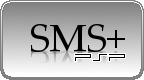
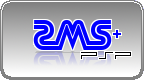
Implemented unique colors & images Added viewport rendering to PutImage

Changed region(s): [[0.1944, 0.225, 0.9167, 0.775]]

diff --git a/psp/menu.c b/psp/menu.c
@@ -129,7 +129,6 @@ static const PspMenuOptionDef
   FrameLimitOptions[] = {
     { "Disabled", (void*)0 },
     { "60 fps (NTSC)", (void*)60 },
-    { "50 fps (PAL)", (void*)50 },
     { NULL, NULL } },
   FrameSkipOptions[] = {
     { "No skipping", (void*)0 },
@@ -189,42 +188,42 @@ static const PspMenuItemDef
     { NULL, NULL }
   },
   ControlMenuDef[] = {
-    { PSP_FONT_ANALUP,     (void*)MAP_ANALOG_UP,
+    { "\026"PSP_FONT_ANALUP,     (void*)MAP_ANALOG_UP,
       ButtonMapOptions, -1, ControlHelpText },
-    { PSP_FONT_ANALDOWN,   (void*)MAP_ANALOG_DOWN,
+    { "\026"PSP_FONT_ANALDOWN,   (void*)MAP_ANALOG_DOWN,
       ButtonMapOptions, -1, ControlHelpText },
-    { PSP_FONT_ANALLEFT,   (void*)MAP_ANALOG_LEFT,
+    { "\026"PSP_FONT_ANALLEFT,   (void*)MAP_ANALOG_LEFT,
       ButtonMapOptions, -1, ControlHelpText },
-    { PSP_FONT_ANALRIGHT,  (void*)MAP_ANALOG_RIGHT,
+    { "\026"PSP_FONT_ANALRIGHT,  (void*)MAP_ANALOG_RIGHT,
       ButtonMapOptions, -1, ControlHelpText },
-    { PSP_FONT_UP,         (void*)MAP_BUTTON_UP,
+    { "\026"PSP_FONT_UP,         (void*)MAP_BUTTON_UP,
       ButtonMapOptions, -1, ControlHelpText },
-    { PSP_FONT_DOWN,       (void*)MAP_BUTTON_DOWN,
+    { "\026"PSP_FONT_DOWN,       (void*)MAP_BUTTON_DOWN,
       ButtonMapOptions, -1, ControlHelpText },
-    { PSP_FONT_LEFT,       (void*)MAP_BUTTON_LEFT,
+    { "\026"PSP_FONT_LEFT,       (void*)MAP_BUTTON_LEFT,
       ButtonMapOptions, -1, ControlHelpText },
-    { PSP_FONT_RIGHT,      (void*)MAP_BUTTON_RIGHT,
+    { "\026"PSP_FONT_RIGHT,      (void*)MAP_BUTTON_RIGHT,
       ButtonMapOptions, -1, ControlHelpText },
-    { PSP_FONT_SQUARE,     (void*)MAP_BUTTON_SQUARE,
+    { "\026"PSP_FONT_SQUARE,     (void*)MAP_BUTTON_SQUARE,
       ButtonMapOptions, -1, ControlHelpText },
-    { PSP_FONT_CROSS,      (void*)MAP_BUTTON_CROSS,
+    { "\026"PSP_FONT_CROSS,      (void*)MAP_BUTTON_CROSS,
       ButtonMapOptions, -1, ControlHelpText },
-    { PSP_FONT_CIRCLE,     (void*)MAP_BUTTON_CIRCLE,
+    { "\026"PSP_FONT_CIRCLE,     (void*)MAP_BUTTON_CIRCLE,
       ButtonMapOptions, -1, ControlHelpText },
-    { PSP_FONT_TRIANGLE,   (void*)MAP_BUTTON_TRIANGLE,
+    { "\026"PSP_FONT_TRIANGLE,   (void*)MAP_BUTTON_TRIANGLE,
       ButtonMapOptions, -1, ControlHelpText },
-    { PSP_FONT_LTRIGGER,   (void*)MAP_BUTTON_LTRIGGER,
+    { "\026"PSP_FONT_LTRIGGER,   (void*)MAP_BUTTON_LTRIGGER,
       ButtonMapOptions, -1, ControlHelpText },
-    { PSP_FONT_RTRIGGER,   (void*)MAP_BUTTON_RTRIGGER,
+    { "\026"PSP_FONT_RTRIGGER,   (void*)MAP_BUTTON_RTRIGGER,
       ButtonMapOptions, -1, ControlHelpText },
-    { PSP_FONT_SELECT,     (void*)MAP_BUTTON_SELECT,
+    { "\026"PSP_FONT_SELECT,     (void*)MAP_BUTTON_SELECT,
       ButtonMapOptions, -1, ControlHelpText },
-    { PSP_FONT_START,      (void*)MAP_BUTTON_START,
+    { "\026"PSP_FONT_START,      (void*)MAP_BUTTON_START,
       ButtonMapOptions, -1, ControlHelpText },
-    { PSP_FONT_LTRIGGER"+"PSP_FONT_RTRIGGER,
+    { "\026"PSP_FONT_LTRIGGER"+"PSP_FONT_RTRIGGER,
                            (void*)MAP_BUTTON_LRTRIGGERS,
       ButtonMapOptions, -1, ControlHelpText },
-    { PSP_FONT_START"+"PSP_FONT_SELECT,
+    { "\026"PSP_FONT_START"+"PSP_FONT_SELECT,
                            (void*)MAP_BUTTON_STARTSELECT,
       ButtonMapOptions, -1, ControlHelpText },
     { NULL, NULL }
@@ -311,10 +310,10 @@ struct ButtonConfig DefaultConfig =
     JOY|INPUT_DOWN,   /* D-pad Down   */
     JOY|INPUT_LEFT,   /* D-pad Left   */
     JOY|INPUT_RIGHT,  /* D-pad Right  */
-    JOY|INPUT_BUTTON1,/* Square       */
+    JOY|INPUT_BUTTON2,/* Square       */
     JOY|INPUT_BUTTON1,/* Cross        */
-    JOY|INPUT_BUTTON2,/* Circle       */
-    JOY|INPUT_BUTTON2,/* Triangle     */
+    0,                /* Circle       */
+    0,                /* Triangle     */
     0,                /* L Trigger    */
     0,                /* R Trigger    */
     0,                /* Select       */
@@ -372,7 +371,7 @@ void InitMenu()
 
   /* Init NoSaveState icon image */
   NoSaveIcon=pspImageCreate(136, 114);
-  pspImageClear(NoSaveIcon, RGB(66,66,66));
+  pspImageClear(NoSaveIcon, RGB(0x0c,0,0x3f));
 
   /* Initialize state menu */
   SaveStateGallery.Menu = pspMenuCreate();
@@ -416,7 +415,7 @@ void InitMenu()
   UiMetric.Left = 8;
   UiMetric.Top = 24;
   UiMetric.Right = 472;
-  UiMetric.Bottom = 240;
+  UiMetric.Bottom = 250;
   UiMetric.OkButton = (!SmsOptions.ControlMode) ? PSP_CTRL_CROSS : PSP_CTRL_CIRCLE;
   UiMetric.CancelButton = (!SmsOptions.ControlMode) ? PSP_CTRL_CIRCLE : PSP_CTRL_CROSS;
   UiMetric.ScrollbarColor = PSP_VIDEO_GRAY;
@@ -425,8 +424,8 @@ void InitMenu()
   UiMetric.DialogBorderColor = PSP_VIDEO_GRAY;
   UiMetric.DialogBgColor = PSP_VIDEO_DARKGRAY;
   UiMetric.TextColor = PSP_VIDEO_GRAY;
-  UiMetric.SelectedColor = PSP_VIDEO_GREEN;
-  UiMetric.SelectedBgColor = COLOR(0,0,0,0x55);
+  UiMetric.SelectedColor = PSP_VIDEO_YELLOW;
+  UiMetric.SelectedBgColor = COLOR(0xff,0xff,0xff,0x44);
   UiMetric.StatusBarColor = PSP_VIDEO_WHITE;
   UiMetric.BrowserFileColor = PSP_VIDEO_GRAY;
   UiMetric.BrowserDirectoryColor = PSP_VIDEO_YELLOW;
@@ -610,7 +609,7 @@ void OnGenericRender(const void *uiobject, const void *item_obj)
 
     /* Draw background of active tab */
     if (i == TabIndex)
-      pspVideoFillRect(x - 5, 0, x + width + 5, height + 1, 0xff959595);
+      pspVideoFillRect(x - 5, 0, x + width + 5, height + 1, COLOR(0x17,0x00,0x79,0xff));
 
     /* Draw name of tab */
     pspVideoPrint(UiMetric.Font, x, 0, TabLabel[i], PSP_VIDEO_WHITE);
@@ -1164,7 +1163,9 @@ PspImage* SaveState(const char *path, PspImage *icon)
     return NULL;
 
   /* Create thumbnail */
-  PspImage *thumb = pspImageCreateThumbnail(icon);
+  PspImage *thumb;
+  thumb = (icon->Viewport.Width < 200)
+    ? pspImageCreateCopy(icon) : pspImageCreateThumbnail(icon);
   if (!thumb) { fclose(f); return NULL; }
 
   /* Write the thumbnail */

diff --git a/psplib/image.c b/psplib/image.c
@@ -89,11 +89,14 @@ PspImage* pspImageCreateThumbnail(const PspImage *image)
   PspImage *thumb;
   int i, j, p;
 
-  if (!(thumb = pspImageCreate(image->Width / 2, image->Height / 2)))
+  if (!(thumb = pspImageCreate(image->Viewport.Width / 2, image->Viewport.Height / 2)))
     return NULL;
 
-  for (i = 0, p = 0; i < image->Height; i += 2)
-    for (j = 0; j < image->Width; j += 2)
+  int dy = image->Viewport.Y + image->Viewport.Height;
+  int dx = image->Viewport.X + image->Viewport.Width;
+
+  for (i = image->Viewport.Y, p = 0; i < dy; i += 2)
+    for (j = image->Viewport.X; j < dx; j += 2)
       thumb->Pixels[p++] = image->Pixels[(image->Width * i) + j];
 
   return thumb;  
@@ -110,6 +113,7 @@ PspImage* pspImageCreateCopy(const PspImage *image)
   /* Copy pixels */
   int size = image->Width * image->Height * sizeof(unsigned short);
   memcpy(copy->Pixels, image->Pixels, size);
+  memcpy(&copy->Viewport, &image->Viewport, sizeof(PspViewport));
 
   return copy;
 }
@@ -307,52 +311,55 @@ int pspImageSavePngOpen(FILE *fp, const PspImage* image)
   const unsigned short *pixel;
   int i, j;
 
-  if (!(bitmap = (unsigned char*)malloc(sizeof(unsigned char) * image->Width * image->Height * 3)))
+  int size = sizeof(u8) * image->Viewport.Width * image->Viewport.Height * 3;
+  if (!(bitmap = (u8*)malloc(size)))
     return 0;
 
-  for (i = 0, pixel = image->Pixels; i < image->Height; i++)
+  pixel = image->Pixels + (image->Viewport.Y * image->Width);
+  for (i = 0; i < image->Viewport.Height; i++)
   {
-    for (j = 0; j < image->Width; j++, pixel++)
+    pixel += image->Viewport.X;
+    for (j = 0; j < image->Viewport.Width; j++, pixel++)
     {
-      bitmap[i * image->Width * 3 + j * 3 + 0] = RED(*pixel);
-      bitmap[i * image->Width * 3 + j * 3 + 1] = GREEN(*pixel);
-      bitmap[i * image->Width * 3 + j * 3 + 2] = BLUE(*pixel);
+      bitmap[i * image->Viewport.Width * 3 + j * 3 + 0] = RED(*pixel);
+      bitmap[i * image->Viewport.Width * 3 + j * 3 + 1] = GREEN(*pixel);
+      bitmap[i * image->Viewport.Width * 3 + j * 3 + 2] = BLUE(*pixel);
     }
   }
 
   png_struct *pPngStruct = png_create_write_struct( PNG_LIBPNG_VER_STRING,
     NULL, NULL, NULL );
 
-	if (!pPngStruct)
-	{
-	  free(bitmap);
-		return 0;
+  if (!pPngStruct)
+  {
+    free(bitmap);
+    return 0;
   }
 
   png_info *pPngInfo = png_create_info_struct( pPngStruct );
-	if (!pPngInfo)
-	{
-		png_destroy_write_struct( &pPngStruct, NULL );
-	  free(bitmap);
-		return 0;
-	}
+  if (!pPngInfo)
+  {
+    png_destroy_write_struct( &pPngStruct, NULL );
+    free(bitmap);
+    return 0;
+  }
 
-	png_byte **buf = (png_byte**)malloc(image->Height * sizeof(png_byte*));
-	if (!buf)
-	{
+  png_byte **buf = (png_byte**)malloc(image->Height * sizeof(png_byte*));
+  if (!buf)
+  {
     png_destroy_write_struct( &pPngStruct, &pPngInfo );
-	  free(bitmap);
-		return 0;
-	}
+    free(bitmap);
+    return 0;
+  }
 
-	unsigned int y;
-	for (y = 0; y < image->Height; y++)
-		buf[y] = (byte*)&bitmap[y * image->Width * 3];
+  unsigned int y;
+  for (y = 0; y < image->Height; y++)
+    buf[y] = (byte*)&bitmap[y * image->Width * 3];
 
   if (setjmp( pPngStruct->jmpbuf ))
   {
     free(buf);
-	  free(bitmap);
+    free(bitmap);
     png_destroy_write_struct( &pPngStruct, &pPngInfo );
     return 0;
   }
@@ -368,7 +375,7 @@ int pspImageSavePngOpen(FILE *fp, const PspImage* image)
   png_write_end( pPngStruct, pPngInfo );
 
   png_destroy_write_struct( &pPngStruct, &pPngInfo );
-	free(buf);
+  free(buf);
   free(bitmap);
 
   return 1;

diff --git a/psplib/video.c b/psplib/video.c
@@ -9,6 +9,9 @@
 /**     commercially. Please, notify me, if you make any    **/
 /**     changes to this file.                               **/
 /*************************************************************/
+
+/* TODO: move ScratchBuffer into VRAM */
+
 #include <pspgu.h>
 #include <pspkernel.h>
 #include <pspdisplay.h>
@@ -158,10 +161,13 @@ void pspVideoPutImage(const PspImage *image, int dx, int dy, int dw, int dh)
 
   void *pixels = _pspVideoGetBuffer(image);
 
-  if (dw == image->Width && dh == image->Height)
+  if (dw == image->Viewport.Width && dh == image->Viewport.Height)
   {
-    sceGuCopyImage(PixelFormat, 0, 0, BUF_WIDTH, SCR_HEIGHT, BUF_WIDTH,
-      pixels, dx, dy, BUF_WIDTH, (void *)(VRAM_START + (u32)VramOffset));
+    sceGuCopyImage(PixelFormat,
+      image->Viewport.X, image->Viewport.Y,
+      image->Viewport.Width, image->Viewport.Height,
+      BUF_WIDTH, pixels, dx, dy,
+      BUF_WIDTH, (void *)(VRAM_START + (u32)VramOffset));
   }
   else
   {
@@ -173,14 +179,16 @@ void pspVideoPutImage(const PspImage *image, int dx, int dy, int dw, int dh)
 
     struct TexVertex* vertices;
     int start, end, sc_end, slsz_scaled;
-    slsz_scaled = ceil((float)dw * (float)SLICE_SIZE) / (float)image->Width;
+    slsz_scaled = ceil((float)dw * (float)SLICE_SIZE) / (float)image->Viewport.Width;
 
-    for (start = 0, end = BUF_WIDTH, sc_end = dx + dw; start < end; start += SLICE_SIZE, dx += slsz_scaled)
+    for (start = image->Viewport.X, end = image->Viewport.X + image->Viewport.Width, sc_end = dx + dw; start < end; start += SLICE_SIZE, dx += slsz_scaled)
     {
       vertices = (struct TexVertex*)sceGuGetMemory(2 * sizeof(struct TexVertex));
 
-      vertices[0].u = start; vertices[0].v = 0;
-      vertices[1].u = start + SLICE_SIZE; vertices[1].v = image->Height;
+      vertices[0].u = start;
+      vertices[0].v = image->Viewport.Y;
+      vertices[1].u = start + SLICE_SIZE;
+      vertices[1].v = image->Viewport.Height + image->Viewport.Y;
 
       vertices[0].x = dx; vertices[0].y = dy;
       vertices[1].x = dx + slsz_scaled; vertices[1].y = dy + dh;

diff --git a/psplib/ui.c b/psplib/ui.c
@@ -736,7 +736,7 @@ void pspUiOpenGallery(const PspUiGallery *gallery, const char *title)
           glow += glow_dir;
           if (glow >= 5 || glow <= 2) glow_dir *= -1;
           pspVideoGlowRect(j - 4, i - 4, 
-            j + icon_w + 4, i + icon_h + 4, UiMetric.SelectedBgColor, glow);
+            j + icon_w + 4, i + icon_h + 4, UiMetric.SelectedColor, glow);
         }
         else 
         {
@@ -966,7 +966,7 @@ void pspUiOpenMenu(const PspUiMenu *uimenu, const char *title)
             PspMenuOption *option;
 
             /* Find the longest option caption */
-            for (option = sel->Options; option->Next; option = option->Next)
+            for (option = sel->Options; option; option = option->Next)
               if (option->Text && (width = pspFontGetTextWidth(UiMetric.Font, option->Text)) > max_option_w) 
                 max_option_w = width;
 
